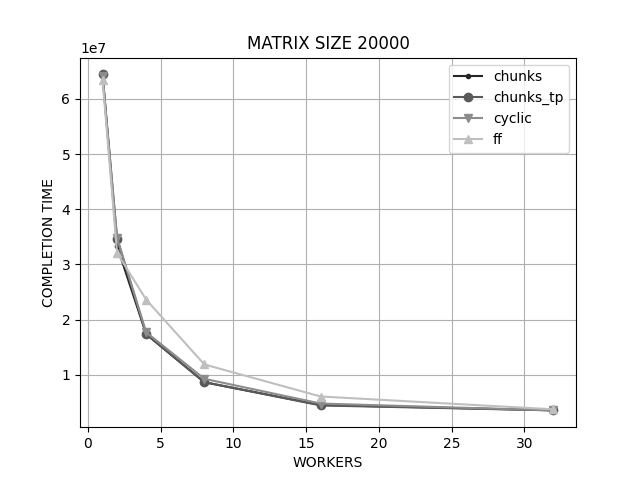
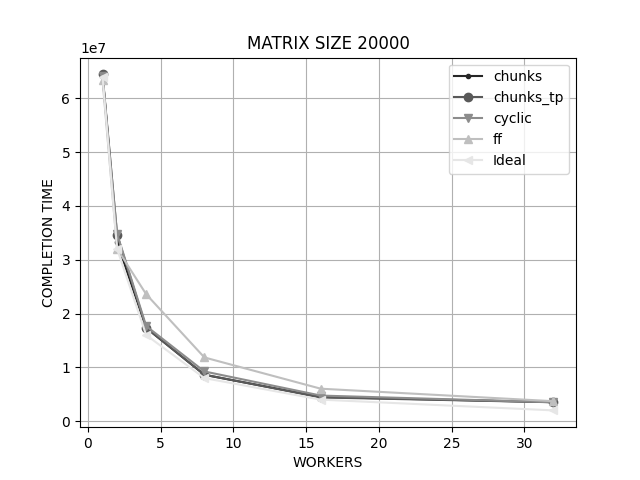
Readme added

diff --git a/compute_stats.py b/compute_stats.py
@@ -7,17 +7,17 @@ headers = ["Size", "Workers", "Completion Time", "Type"]
 df = pd.read_csv("results/parallel.csv", names=headers)
 df2 = pd.DataFrame(columns=["Size", "Workers", "Mean Completion Time", "Type"])
 
-markers_list=['.','o','v','^','<','>']
-greyscale=['0.15','0.35','0.55','0.75','0.90']
+markers_list = ['.', 'o', 'v', '^', '<', '>']
+greyscale = ['0.15', '0.35', '0.55', '0.75', '0.90']
 
-types=["chunks", "chunks_tp", "cyclic", "ff"]
-sizes=[500,5000, 20000]
-workers_list=[1,2,4,8,16,32]
+types = ["chunks", "chunks_tp", "cyclic", "ff"]
+sizes = [500, 5000, 20000]
+workers_list = [1, 2, 4, 8, 16, 32]
 
 param_grid = {
-        "sizes": sizes,
-        'workers': workers_list,
-        "type": types,
+    "sizes": sizes,
+    'workers': workers_list,
+    "type": types,
 }
 
 keys = param_grid.keys()
@@ -25,10 +25,11 @@ combinations = it.product(*(param_grid[key] for key in keys))
 
 param_list = list(combinations)
 
+##### COMPUTE AVERAGE COMPLETION TIME FOR PARALLEL VERSION
 for index, elem in enumerate(param_list):
-    size=elem[0]
-    workers=elem[1]
-    type=elem[2]
+    size = elem[0]
+    workers = elem[1]
+    type = elem[2]
 
     temp_df = df.loc[(df['Size'] == size) & (df['Type'] == type) & (df['Workers'] == workers)]
 
@@ -36,23 +37,51 @@ for index, elem in enumerate(param_list):
 
     df2.loc[index] = [size, workers, mean, type]
 
+#SAVE AVERAGE COMPLETION TIME TO A CSV FILE
 df2.to_csv("./results/mean_completion_times_parallel.csv")
 
+
+#COMPUTE AVERAGE COMPLETION TIME FOR SEQUENTIAL VERSION
+sequential_df = pd.read_csv("./results/sequential.csv", names=["Size", "Completion Time"])
+sequential_df2 = pd.DataFrame(columns=["Size", "Mean Completion Time"])
+
+for i, size in enumerate(sizes):
+    mean = sequential_df.loc[(sequential_df["Size"] == size)]["Completion Time"].mean()
+    sequential_df2.loc[i] = [size, mean]
+
+    k = 1
+    while (k <= 32):
+        print(f"Ideal completion time size {size} workers {k}: {mean / k}")
+        k *= 2
+
+sequential_df2 = sequential_df2.astype({"Size": int})
+sequential_df2.to_csv("./results/mean_completion_times_sequential.csv")
+
+
+#COMPUTE COMPLETION TIME PLOTS
 for elem in sizes:
     for i, type in enumerate(types):
         temp_df2 = df2.loc[(df2['Size'] == elem) & (df2['Type'] == type)]
         plt.plot(temp_df2["Workers"], temp_df2["Mean Completion Time"], label=type, marker=markers_list[i],
-             c=greyscale[i])
+                 c=greyscale[i])
+
+    seq_temp_df = sequential_df2.loc[(sequential_df2['Size'] == elem)]
+    mean = seq_temp_df["Mean Completion Time"]
+    ideal_completion_times = []
+    for w in workers_list:
+        ideal = mean / w
+        ideal_completion_times.append(ideal)
+
+    plt.plot(workers_list, ideal_completion_times, label="Ideal", marker=markers_list[i + 1], c=greyscale[i + 1])
     plt.title("MATRIX SIZE " + str(elem))
     plt.legend()
     plt.xlabel("WORKERS")
     plt.ylabel("COMPLETION TIME")
     plt.grid()
-    plt.savefig("./results/Completion Time Matrix Size "+str(elem)+".png")
+    plt.savefig("./results/Completion Time Matrix Size " + str(elem) + ".png")
     plt.show()
 
 columns = ["Workers", "CHUNKS", "CHUNKS_TP", "CYCLIC", "FF"]
-
 
 #### SCALABILITY DATAFRAME
 scalability_df = pd.DataFrame(columns=columns)
@@ -64,30 +93,13 @@ for size in sizes:
 
         scalability_list = []
         for tpar1, tparn in zip(tpar1_list, tparn_list):
-            scalability_list.append(round((tpar1/tparn),3))
+            scalability_list.append(round((tpar1 / tparn), 3))
 
-        scalability_df.loc[i] = [worker]+scalability_list
+        scalability_df.loc[i] = [worker] + scalability_list
 
     scalability_df.to_csv(f"./results/scalability{size}.csv")
 
-
 ##### SPEEDUP DATAFRAME
-sequential_df = pd.read_csv("./results/sequential.csv", names=["Size", "Completion Time"])
-sequential_df2 = pd.DataFrame(columns=["Size", "Mean Completion Time"])
-
-for i, size in enumerate(sizes):
-    mean = sequential_df.loc[(sequential_df["Size"]==size)]["Completion Time"].mean()
-    sequential_df2.loc[i] = [size, mean]
-
-    k=1
-    while (k<=32):
-        print(f"Ideal completion time size {size} workers {k}: {mean/k}")
-
-
-        k*=2
-
-sequential_df2.to_csv("./results/mean_completion_times_sequential.csv")
-
 speedup_df = pd.DataFrame(columns=columns)
 
 for j, size in enumerate(sizes):
@@ -98,11 +110,27 @@ for j, size in enumerate(sizes):
 
         speedup_list = []
         for tparn in tparn_list:
-            speedup_list.append(round((tseq_list[j]/tparn),3))
+            speedup_list.append(round((tseq_list[j] / tparn), 3))
 
-        speedup_df.loc[i] = [worker]+speedup_list
+        speedup_df.loc[i] = [worker] + speedup_list
 
     speedup_df.to_csv(f"./results/speedup{size}.csv")
+
+    #SPEEDUP PLOT
+    i = 0
+    for (columnName, columnData) in speedup_df.iteritems():
+        if columnName == "Workers":
+            continue
+        plt.plot(workers_list, columnData.values, label=columnName, marker=markers_list[i], c=greyscale[i])
+        i += 1
+
+    plt.title("MATRIX SIZE " + str(size))
+    plt.legend()
+    plt.xlabel("WORKERS")
+    plt.ylabel("SPEEDUP")
+    plt.grid()
+    plt.savefig("./results/SPEEDUP Matrix Size " + str(size) + ".png")
+    plt.show()
 
 ##### EFFICIENCY DATAFRAME
 for j, size in enumerate(sizes):
@@ -110,9 +138,9 @@ for j, size in enumerate(sizes):
     efficiency_df = pd.DataFrame(columns=columns)
 
     for index, row in speedup_df.iterrows():
-
-        efficiency_df.loc[index] = [row["Workers"], round((row["CHUNKS"]/row["Workers"]),3),
-                                    round((row["CHUNKS_TP"] / row["Workers"]),3),  round((row["CYCLIC"] / row["Workers"]),3),
-                                    round((row["FF"] / row["Workers"]),3)]
+        efficiency_df.loc[index] = [row["Workers"], round((row["CHUNKS"] / row["Workers"]), 3),
+                                    round((row["CHUNKS_TP"] / row["Workers"]), 3),
+                                    round((row["CYCLIC"] / row["Workers"]), 3),
+                                    round((row["FF"] / row["Workers"]), 3)]
 
     efficiency_df.to_csv(f"./results/efficiency{size}.csv")

diff --git a/ff_parallel.cpp b/ff_parallel.cpp
@@ -24,7 +24,7 @@ int main(int argc, char * argv[]) {
     int k = atoi(argv[2]); // number of iterations
     int nw = atoi(argv[3]);
     bool check = (atoi(argv[4]) == 0 ? false : true); // Boolean for debugging purposes
-    int seed = 123; //int seed = atoi(argv[3]);
+    int seed = 123;
 
     // generate a random linear system
     vector<vector<float>> matrix = GenerateRandomMatrix(n, seed);

diff --git a/README.md b/README.md
@@ -1,0 +1,83 @@
+# Parallel Jacobi
+
+A comparison between different parallel implementations of the Jacobi algorithm for determining the solutions of a system of linear equations.
+
+
+## Implementation
+
+The parallel versions of this algorithm that have been implemented are:
+
+1. The rows of the matrix are divided one by one by workers in a cyclic manner.
+2. The matrix is divided by chunks of continuous rows, each chunk is assigned to a worker.
+3. The matrix is divided by chunks and thread pinning is also used.
+4. Parallel implementation using FastFlow library.
+
+A sequential version of the program has also been implemented to perform comparisons.
+
+## Structure
+
+```
+📦JacobiSPM
+ ┣ 📂results
+ ┃ ┣ 📜Completion Time Matrix Size 20000.png
+ ┃ ┣ ...
+ ┃ ┣ 📜speedup5000.csv
+ ┣ 📂utils
+ ┃ ┣ 📜utility.cpp
+ ┃ ┣ 📜utility.h
+ ┃ ┣ 📜utimer.cpp
+ ┣ 📜CMakeLists.txt
+ ┣ 📜compute_stats.py
+ ┣ 📜execute.sh
+ ┣ 📜ff_parallel.cpp
+ ┣ 📜parallel_chunks_barrier.cpp
+ ┣ 📜parallel_chunks_barrier_threadpinned.cpp
+ ┣ 📜parallel_row_cyclic_barrier.cpp
+ ┣ 📜sequential.cpp
+ ┣ 📜test_threadsetup.cpp
+ ┣ 📜Makefile
+ ┗ 📜README.md                     
+```
+
+## Compiling and running
+
+A Makefile was created to compile the various versions. To create the executable files, it is possible to execute the rule
+
+```bash
+    make all
+```
+
+To run an experiment, it is possible to launch the program and pass the necessary arguments. An example is the following
+
+```bash
+    ./sequential.out matrix_size number_of_iterartions check_flag
+    ./parallel_chunks_barrier.out matrix_size number_of_iterartions number_of_threads check_flag
+``` 
+
+where
+
+- **matrix_size**: is the length of the matrix and vector. A matrix of size matrix_size*matrix_size and a vector of length matrix_size will be created.
+- **number_of_iterations**: Number of iterations to be performed for Jacobi's method.
+- **nw**: Degree of parallelism to be used.
+- **check_flag**: Boolean for testing purposes [0] => information on the linear system will not be printed on the console [1] => information on the linear system will be printed on the console.
+
+To run all experiments at once run the file execute.sh
+
+```bash
+    ./execute.sh
+``` 
+
+To create speedup, completion time and other tables with useful information, run the python script
+
+```bash
+    ./compute_stats.py
+``` 
+
+## Results
+
+Below are some results for completion time and speedup with matrixes of size 5000*500
+
+<p align="center">
+<img src="results/Completion%20Time%20Matrix%20Size%205000.png" height="5000" />
+<img src="results/SPEEDUP%20Matrix%20Size%205000.png" height="5000" />
+</p>
